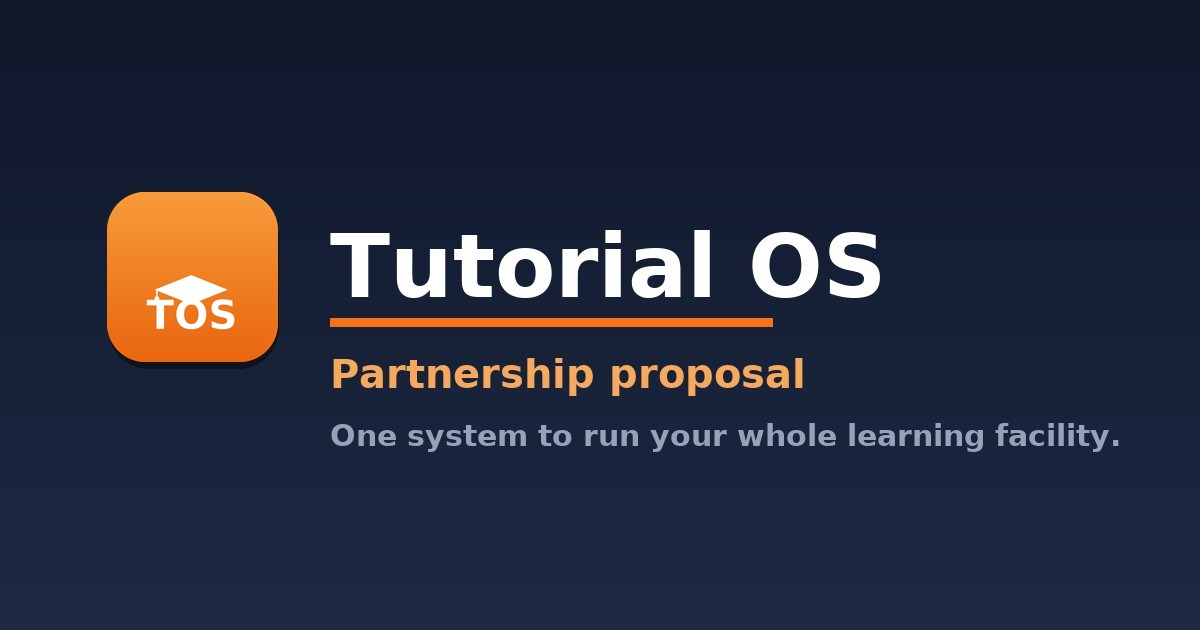
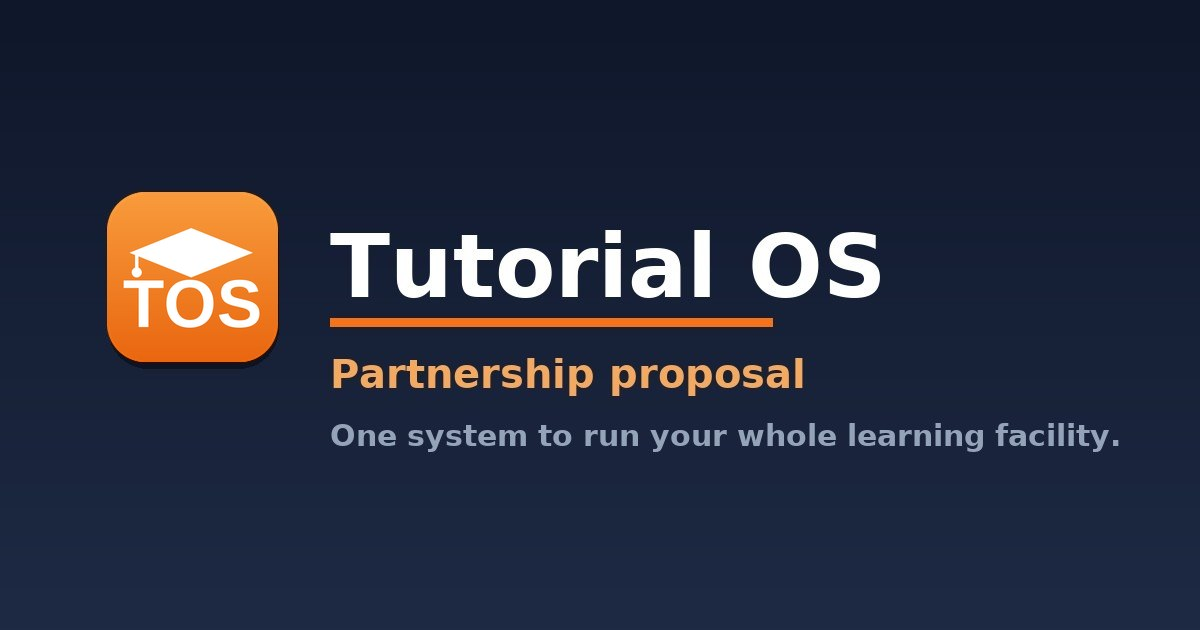
Batch 59: TOS monogram fills the tile (font 205, cap 1.70), or-divider readable on the dark login card
Follow-ups from the batch-58 walkthrough: the TOS monogram now really fills the orange component (TOS text font-size 205, mortarboard 1.70, baseline 406, all icon files regenerated, og-proposal.jpg re-tiled at the batch-58 slot), and 'Or continue with' on the facility login card carries the or-divider hook with a dark-theme rule so it reads #cbd5e1 on the dark card (the batch-58 slate-600 was near-invisible there).

Changed region(s): [[0.0925, 0.3619, 0.2158, 0.5429]]

diff --git a/src/components/tos/batch58.test.ts b/src/components/tos/batch58.test.ts
@@ -9,10 +9,11 @@ import path from 'path';
  *  2. The gate's "You are entering" label is white and bold.
  *  3. "Back to landing page" is a visible bordered pill on the gate and a
  *     bright bordered button on the app install page.
- *  4. "Or continue with" on the facility login card reads in slate-600.
+ *  4. "Or continue with" on the facility login card reads in slate-600 and
+ *     (batch 59) stays readable on the dark card via the or-divider hook.
  *  5. The TOS monogram tile: the TOS text and the cap are enlarged to fill
- *     the orange component (font-size 175, cap scaled 1.45), every icon
- *     file regenerated from the new SVG, og-proposal.jpg re-tiled.
+ *     the orange component (batch 59: font-size 205, cap scaled 1.70,
+ *     baseline 406), every icon file regenerated, og-proposal.jpg re-tiled.
  */
 
 const repo = (p: string) => fs.readFileSync(path.join(process.cwd(), p), 'utf8');
@@ -36,13 +37,13 @@ const install = repo('src/components/public/AppInstallPage.tsx');
 check(install.includes("color: '#F1F5F9'") && install.includes("border: '1px solid rgba(255,255,255,0.35)'") && install.includes("background: 'rgba(255,255,255,0.12)'"), 'install-page back button is bright');
 
 const auth = repo('src/components/auth/AuthPortal.tsx');
-check(auth.includes('px-4 bg-white text-slate-600">Or continue with</span>'), 'Or continue with reads in slate-600');
+check(auth.includes('px-4 bg-white text-slate-600 or-divider">Or continue with</span>'), 'Or continue with reads in slate-600 (batch 59: + or-divider)');
 check(!auth.includes('text-slate-400">Or continue with'), 'old faded divider gone');
 
 const svg = repo('public/icon.svg');
-check(svg.includes('font-size="175"'), 'TOS text enlarged to 175');
-check(svg.includes('scale(1.45)'), 'cap scaled up to match');
-check(svg.includes('y="378"'), 'monogram re-centred in the tile');
+check(svg.includes('font-size="205"'), 'TOS text enlarged to 205 (batch 59)');
+check(svg.includes('scale(1.7)'), 'cap scaled up to match (batch 59: 1.70)');
+check(svg.includes('y="406"'), 'monogram re-centred in the tile (batch 59)');
 for (const f of ['tos-brand-icon.png', 'pwa-512x512.png', 'pwa-192x192.png', 'apple-touch-icon.png', 'favicon-32.png', 'favicon.ico', 'icon.svg', 'og-proposal.jpg']) {
   check(fs.existsSync(path.join(process.cwd(), 'public', f)), 'icon file present: ' + f);
 }

diff --git a/src/components/tos/batch59.test.ts b/src/components/tos/batch59.test.ts
@@ -1,0 +1,33 @@
+/**
+ * Batch 59: two follow-ups from the same contrast/logo pass, found on the live walkthrough:
+ *  1. The TOS monogram tile really fills the orange: TOS text font-size 205 (was 175),
+ *     mortarboard scaled 1.70 (was 1.45), text baseline 406, cap lift -81.
+ *  2. "Or continue with" is readable on the DARK facility login card: the span carries the
+ *     or-divider hook and the dark theme repaints it (background #101a2c, text #cbd5e1).
+ */
+import fs from 'fs';
+let fails = 0;
+function check(cond: boolean, msg: string) { if (!cond) { fails++; console.log('FAIL', msg); } else { console.log('ok', msg); } }
+
+const icon = fs.readFileSync('public/icon.svg', 'utf8');
+check(icon.includes('font-size="205"'), 'TOS text enlarged to 205');
+check(icon.includes('scale(1.7)'), 'mortarboard scaled 1.70');
+check(icon.includes('y="406"'), 'text baseline moved to 406');
+check(icon.includes('translate(0,-81)'), 'cap lift -81');
+
+const auth = fs.readFileSync('src/components/auth/AuthPortal.tsx', 'utf8');
+check(auth.includes('px-4 bg-white text-slate-600 or-divider">Or continue with</span>'), 'divider span carries or-divider');
+check(!auth.includes('px-4 bg-white text-slate-600">Or continue with'), 'old span replaced');
+
+const css = fs.readFileSync('src/index.css', 'utf8');
+check(css.includes('.tos-student-dark .or-divider { background-color: #101a2c; color: #cbd5e1; }'), 'dark or-divider rule present');
+const idx = css.indexOf('.tos-student-dark .or-divider');
+const bg = css.indexOf('.tos-student-dark .bg-white { background-color: #101a2c; }');
+check(idx > -1 && bg > -1 && idx > bg, 'or-divider rule lands after the bg-white override');
+
+for (const f of ['public/tos-brand-icon.png','public/pwa-192x192.png','public/pwa-512x512.png','public/apple-touch-icon.png','public/favicon-32.png']) {
+  check(fs.existsSync(f), f + ' exists');
+}
+
+if (fails) { console.log('batch59: ' + fails + ' failures'); process.exit(1); }
+console.log('batch59: all checks pass');

diff --git a/src/components/auth/AuthPortal.tsx b/src/components/auth/AuthPortal.tsx
@@ -840,7 +840,7 @@ export const AuthPortal: React.FC<AuthPortalProps> = ({
                       <div className="w-full border-t border-slate-100"></div>
                     </div>
                     <div className="relative flex justify-center text-[10px] uppercase font-black tracking-widest">
-                      <span className="px-4 bg-white text-slate-600">Or continue with</span>
+                      <span className="px-4 bg-white text-slate-600 or-divider">Or continue with</span>
                     </div>
                   </div>
                 )}

diff --git a/src/index.css b/src/index.css
@@ -252,6 +252,7 @@ span.text-slate-600:not(.dark-bg-mode *) {
 .tos-student-dark .active\:bg-slate-100\/80:active { background-color: #1a2438cc; }
 .tos-student-dark .active\:bg-slate-50\/80:active { background-color: #0d1526cc; }
 .tos-student-dark .border-slate-100 { border-color: #22304a; }
+.tos-student-dark .or-divider { background-color: #101a2c; color: #cbd5e1; }
 .tos-student-dark .border-slate-200 { border-color: #22304a; }
 .tos-student-dark .border-slate-200\/90 { border-color: #22304a; }
 .tos-student-dark .border-slate-200\/80 { border-color: #22304a; }
